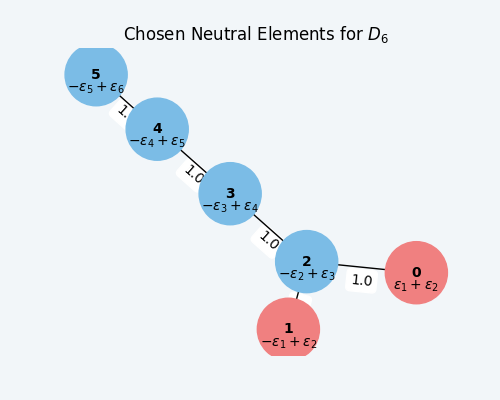
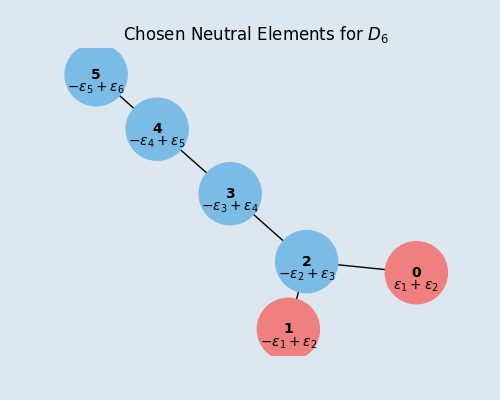
change css

diff --git a/LieToolbox/static/style.css b/LieToolbox/static/style.css
@@ -29,6 +29,10 @@ input[type=submit] { align-self: start; min-width: 10em; }
     justify-content: center; /* centers horizontally */
     gap: 10px; /* spacing between images */
     margin-top: 20px; /* optional vertical spacing */
+    border: 2px solid #377ba8dd;
+    margin-left: auto; /* auto margins for perfect horizontal centering */
+    margin-right: auto;
+    background-color: #dce7f0;
 }
 
 .image-container img {

diff --git a/LieToolbox/Repn/neutral_elements.py b/LieToolbox/Repn/neutral_elements.py
@@ -121,7 +121,7 @@ def visualize_chosen_ids(typ, rank, diagram: nx.Graph, chosen: list[int], save: 
     edge_label_pos = {k: (v[0], v[1] - 0.1) for k, v in pos.items()}
     # Draw edge labels
     _, ax = plt.subplots(figsize=(5, 4), facecolor='#CAE6F6')
-    nx.draw_networkx_edge_labels(diagram, edge_label_pos, edge_labels=edge_labels, ax=ax)
+    # nx.draw_networkx_edge_labels(diagram, edge_label_pos, edge_labels=edge_labels, ax=ax)
 
     nx.draw_networkx_labels(diagram, node_label_pos, labels=pp_node_labels, font_size=10, font_weight='bold', ax=ax)
 
@@ -129,7 +129,7 @@ def visualize_chosen_ids(typ, rank, diagram: nx.Graph, chosen: list[int], save: 
     # ax.set_facecolor('#CAE6F6')
     plt.title(f'Chosen Neutral Elements for ${typ}_{rank}$')
     if save:
-        plt.savefig(f'LieToolbox/static/images/neutral_elements_chosen_ids_{typ}_{rank}.png', format='png', facecolor='#f2f6f9')
+        plt.savefig(f'LieToolbox/static/images/neutral_elements_chosen_ids_{typ}_{rank}.png', format='png', facecolor='#dce7f0')
         plt.close()
     else:
         plt.show()
